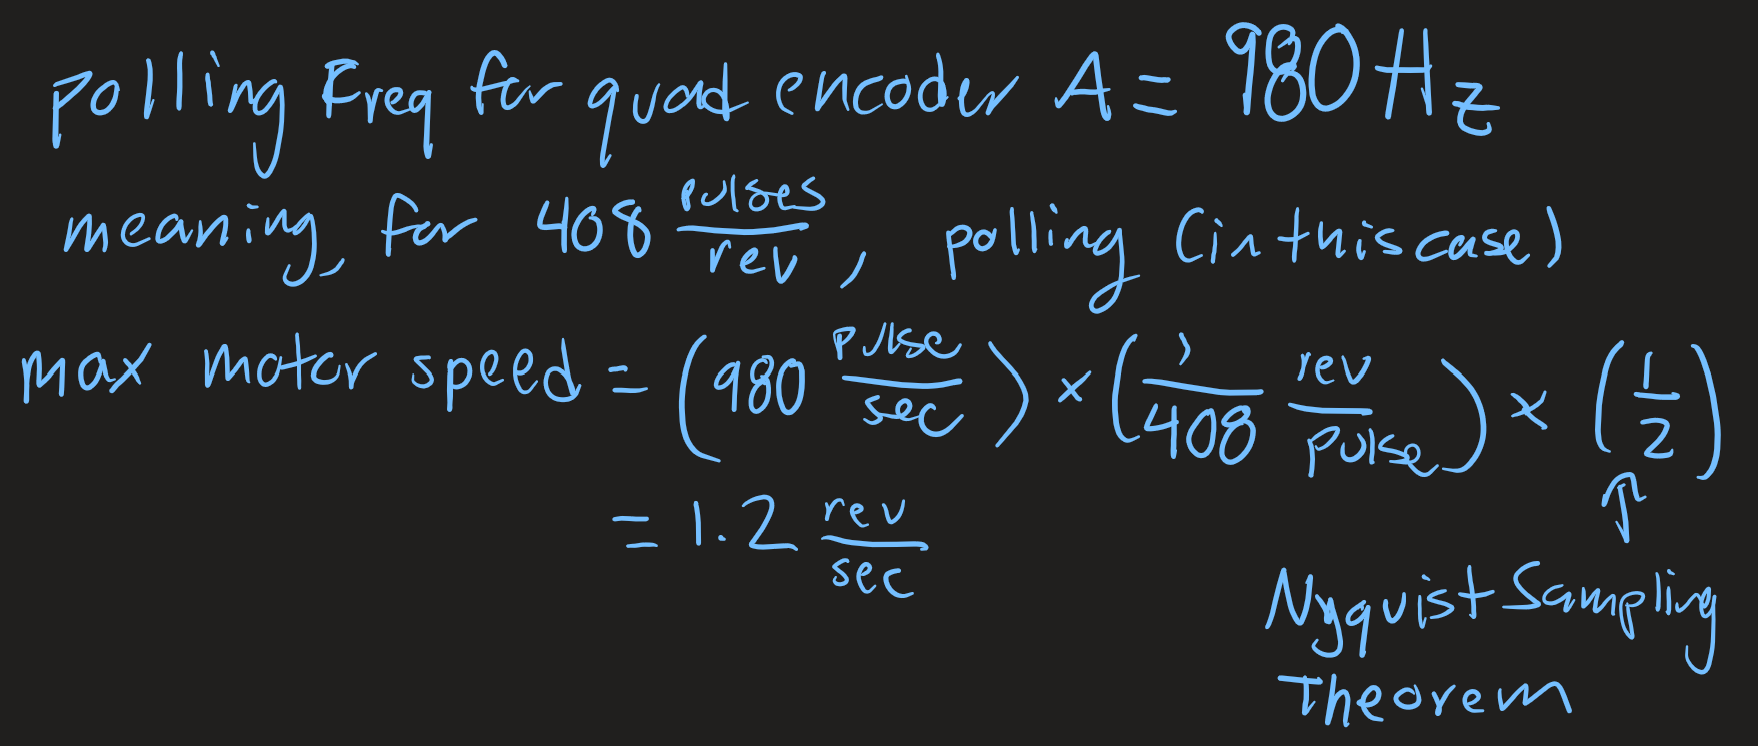
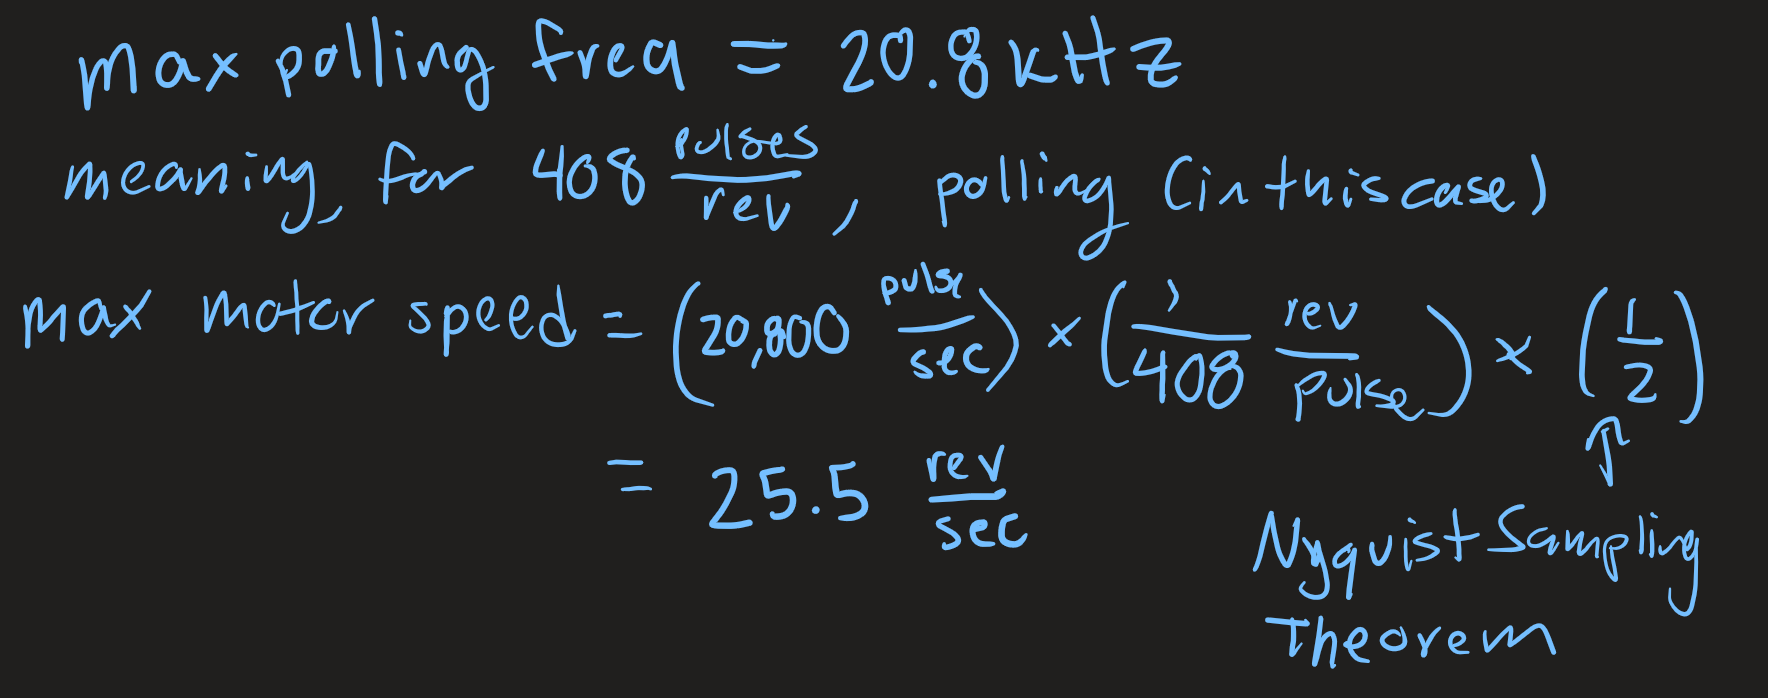
Built site for gh-pages

diff --git a/labs/labs-overview.html b/labs/labs-overview.html
@@ -184,7 +184,7 @@ window.Quarto = {
   <li><a href="#lab-1-fpga-and-mcu-setup-and-testing" id="toc-lab-1-fpga-and-mcu-setup-and-testing" class="nav-link active" data-scroll-target="#lab-1-fpga-and-mcu-setup-and-testing">Lab 1: FPGA and MCU Setup and Testing</a></li>
   <li><a href="#lab-2-multiplexed-7-segment-display" id="toc-lab-2-multiplexed-7-segment-display" class="nav-link" data-scroll-target="#lab-2-multiplexed-7-segment-display">Lab 2: Multiplexed 7-segment Display</a></li>
   <li><a href="#lab-3-keypad-scanner" id="toc-lab-3-keypad-scanner" class="nav-link" data-scroll-target="#lab-3-keypad-scanner">Lab 3: Keypad Scanner</a></li>
-  <li><a href="#lab-4-digital-auto" id="toc-lab-4-digital-auto" class="nav-link" data-scroll-target="#lab-4-digital-auto">Lab 4: Digital Auto</a></li>
+  <li><a href="#lab-4-digital-audio" id="toc-lab-4-digital-audio" class="nav-link" data-scroll-target="#lab-4-digital-audio">Lab 4: Digital Audio</a></li>
   <li><a href="#lab-5-interrupts" id="toc-lab-5-interrupts" class="nav-link" data-scroll-target="#lab-5-interrupts">Lab 5: Interrupts</a></li>
   <li><a href="#lab-6-the-internet-of-things-and-serial-peripheral-interface" id="toc-lab-6-the-internet-of-things-and-serial-peripheral-interface" class="nav-link" data-scroll-target="#lab-6-the-internet-of-things-and-serial-peripheral-interface">Lab 6: The Internet of Things and Serial Peripheral Interface</a></li>
   <li><a href="#lab-7-the-advanced-encryption-standard" id="toc-lab-7-the-advanced-encryption-standard" class="nav-link" data-scroll-target="#lab-7-the-advanced-encryption-standard">Lab 7: The Advanced Encryption Standard</a></li>
@@ -213,8 +213,7 @@ window.Quarto = {
 </header>
 
 
-<p>Here are the E155 Lab Reports.</p>
-<p>So far, I have completed Lab 1.</p>
+<p>Below is an outline of the Labs I have worked on for Microprocessor-Based Systems: Design and Applications. Labs 1-3 focus on FPGA programming (in both simulation and hardware), labs 4-6 focus on MCU programming, and lab 7 involves communication between the MCU and the FPGA (with the FPGA acting as an accelerator for encryption).</p>
 <section id="lab-1-fpga-and-mcu-setup-and-testing" class="level2">
 <h2 class="anchored" data-anchor-id="lab-1-fpga-and-mcu-setup-and-testing"><a href="../labs/lab1/lab1.html">Lab 1: FPGA and MCU Setup and Testing</a></h2>
 </section>
@@ -224,8 +223,8 @@ window.Quarto = {
 <section id="lab-3-keypad-scanner" class="level2">
 <h2 class="anchored" data-anchor-id="lab-3-keypad-scanner"><a href="../labs/lab3/lab3.html">Lab 3: Keypad Scanner</a></h2>
 </section>
-<section id="lab-4-digital-auto" class="level2">
-<h2 class="anchored" data-anchor-id="lab-4-digital-auto"><a href="../labs/lab4/lab4.html">Lab 4: Digital Auto</a></h2>
+<section id="lab-4-digital-audio" class="level2">
+<h2 class="anchored" data-anchor-id="lab-4-digital-audio"><a href="../labs/lab4/lab4.html">Lab 4: Digital Audio</a></h2>
 </section>
 <section id="lab-5-interrupts" class="level2">
 <h2 class="anchored" data-anchor-id="lab-5-interrupts"><a href="../labs/lab5/lab5.html">Lab 5: Interrupts</a></h2>

diff --git a/labs/lab5/lab5.html b/labs/lab5/lab5.html
@@ -434,7 +434,9 @@ pre > code.sourceCode > span > a:first-child::before { text-decoration: underlin
 <p><img src="images\oscope_calcs.png" class="img-fluid"></p>
 <p>I then ran the script using polling, and obtained the following oscilloscope trace showing the same signal from quadrature encoder A (in blue) and the corresponding polled signal (in blue).</p>
 <p><img src="images\DS1Z_QuickPrint4.png" class="img-fluid"></p>
-<p>As can be seen from the cursors, the delay between the encoder impulse and the polled signal of 620 uS = 0.62 ms, which is more than double the interrupt delay. Also, note that the encoder impulse has a frequency of 1.01 kHz, while the polled signal has a frequency of 980 Hz. From this, we can calculate the max speed that polling can accurately sample according to Nyquist’s sampling theorem. Note an inherent limitation of this calculation: the delay depends on how I specifically implemented polling in this quadrature encoder, also this does not account for the change in polling frequency as a function of motor speed. Ideally, I would perform this calculation by measuring the frequency of polling (i.e.&nbsp;by toggling a GPIO pin in a while loop with no delay). However, when I attempted this, I had difficulty reading the signal accurately (it was very noisy and hard to interpret). The actual maximum speed is likely much faster, since this actual polling frequency would be much quicker.</p>
+<p>As can be seen from the cursors, the delay between the encoder impulse and the polled signal of 620 uS = 0.62 ms, which is more than double the interrupt delay. Also, note that the encoder impulse has a frequency of 1.01 kHz, while the polled signal has a frequency of 980 Hz. Compare this to the lack of frequency delay observed in interrupts. This ocurrs due to the fact that interrupts handle code in hardware – when a trigger event happens, the MCU updates the program counter to point to the interrupt handler. This means, when the trigger event is not ocurring, the software experiences no delay from the interrupt handler. Any delays in interrupt handling are due to the length/intensity of the interrupt handler script. Polling, on the other hand, relies on software to repeatedly check for any trigger events. This inherently limits the frequency at which polling can occur. Investigating this further, I wrote a script that toggles a GPIO pin in a while loop with no trigger or hardcoded delay. This yielded a square wave captured in the following oscilloscope trace:</p>
+<p><img src="images\polling_freq.png" class="img-fluid"></p>
+<p>The maximum possible polling frequency is 20.8 kHz. From this, we can calculate the max speed that polling can accurately sample according to Nyquist’s sampling theorem.</p>
 <p><img src="images\max_speed_calcs.png" class="img-fluid"></p>
 </section>
 <section id="summary" class="level2">
